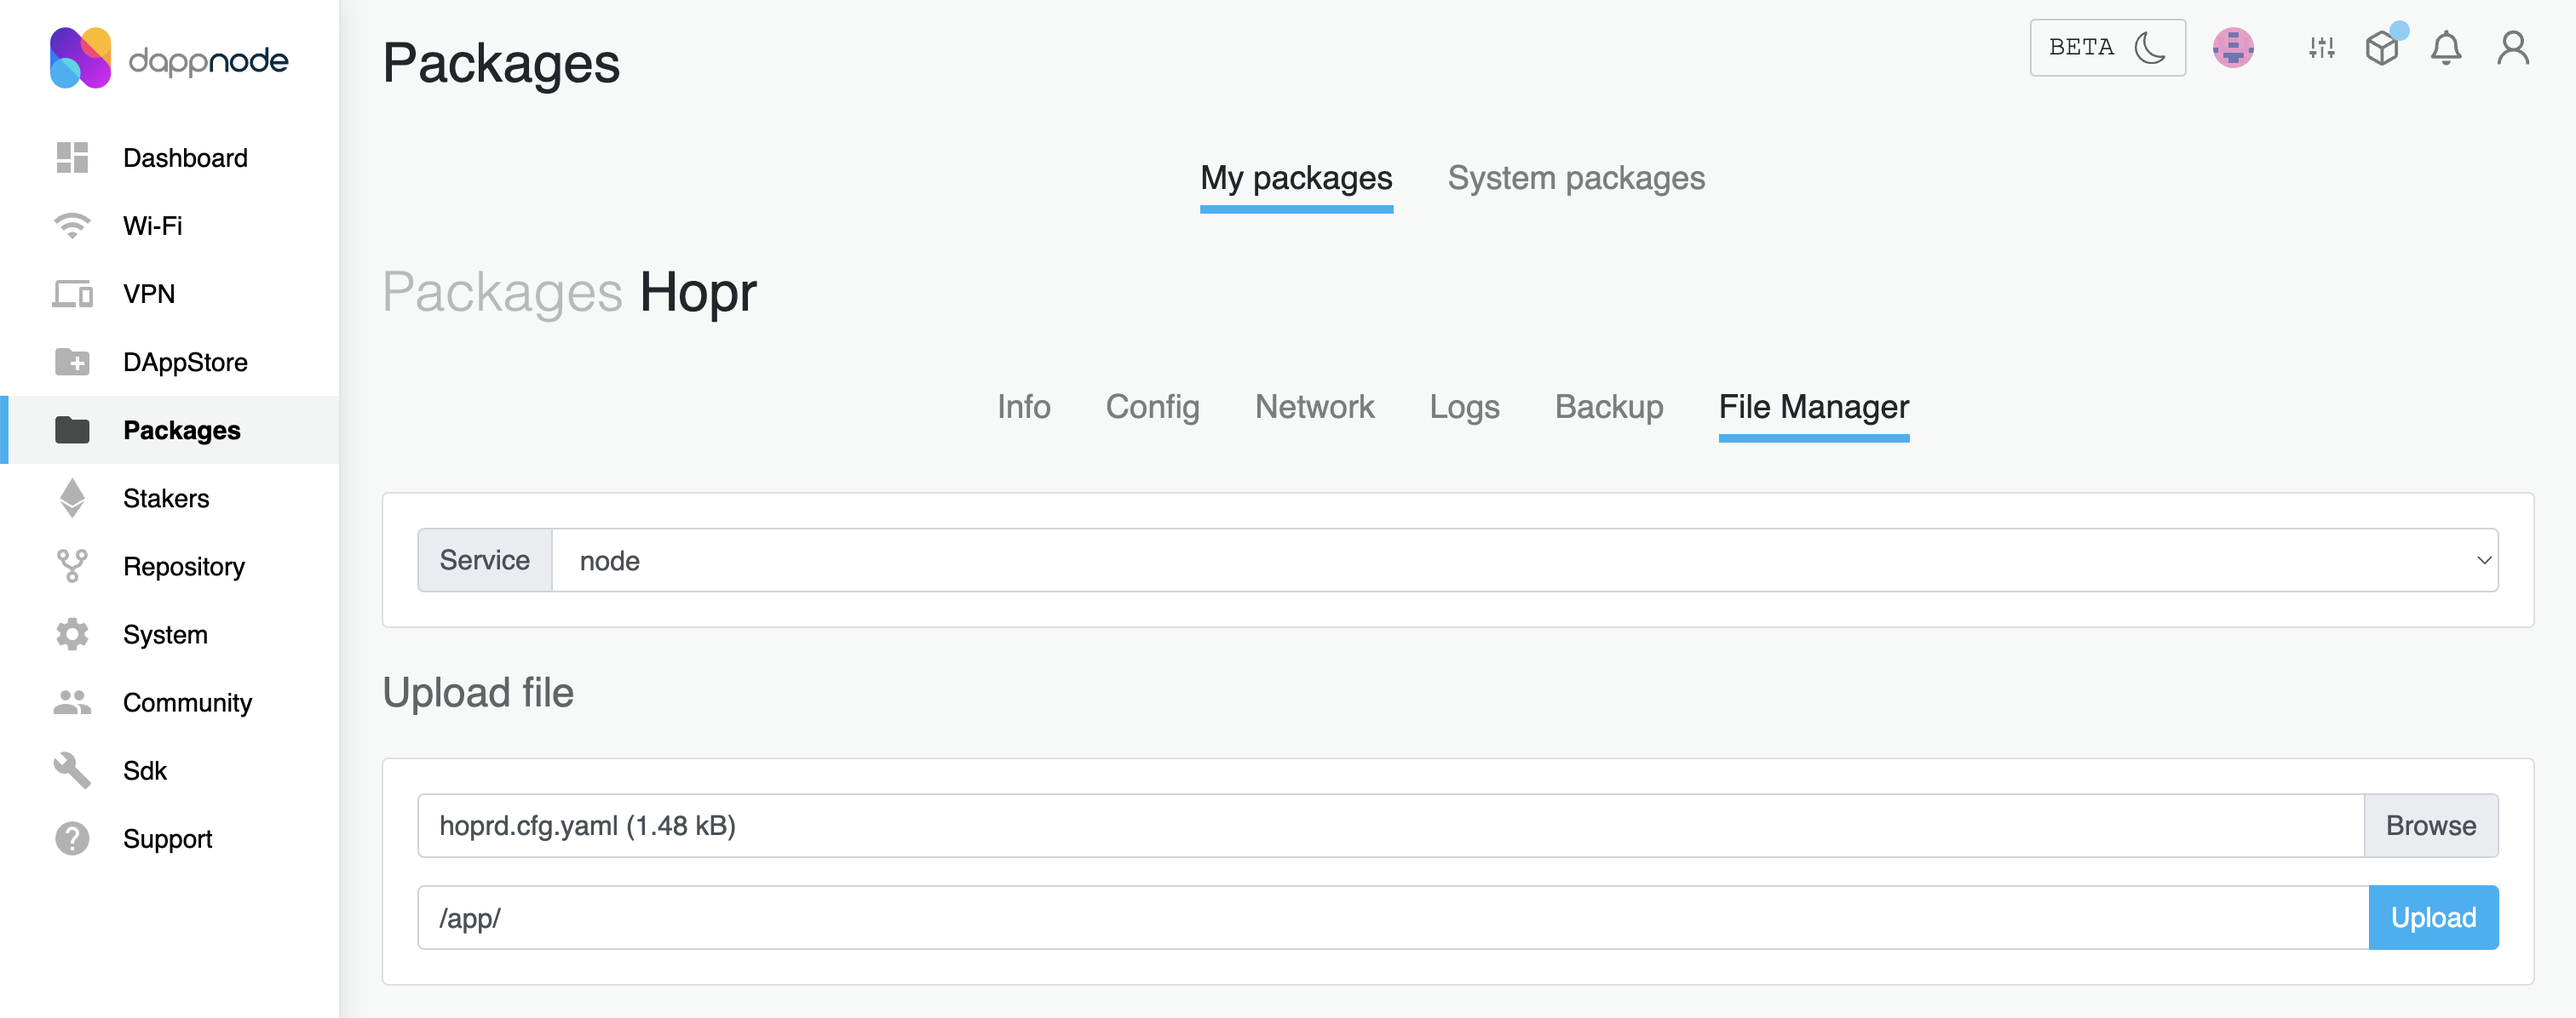
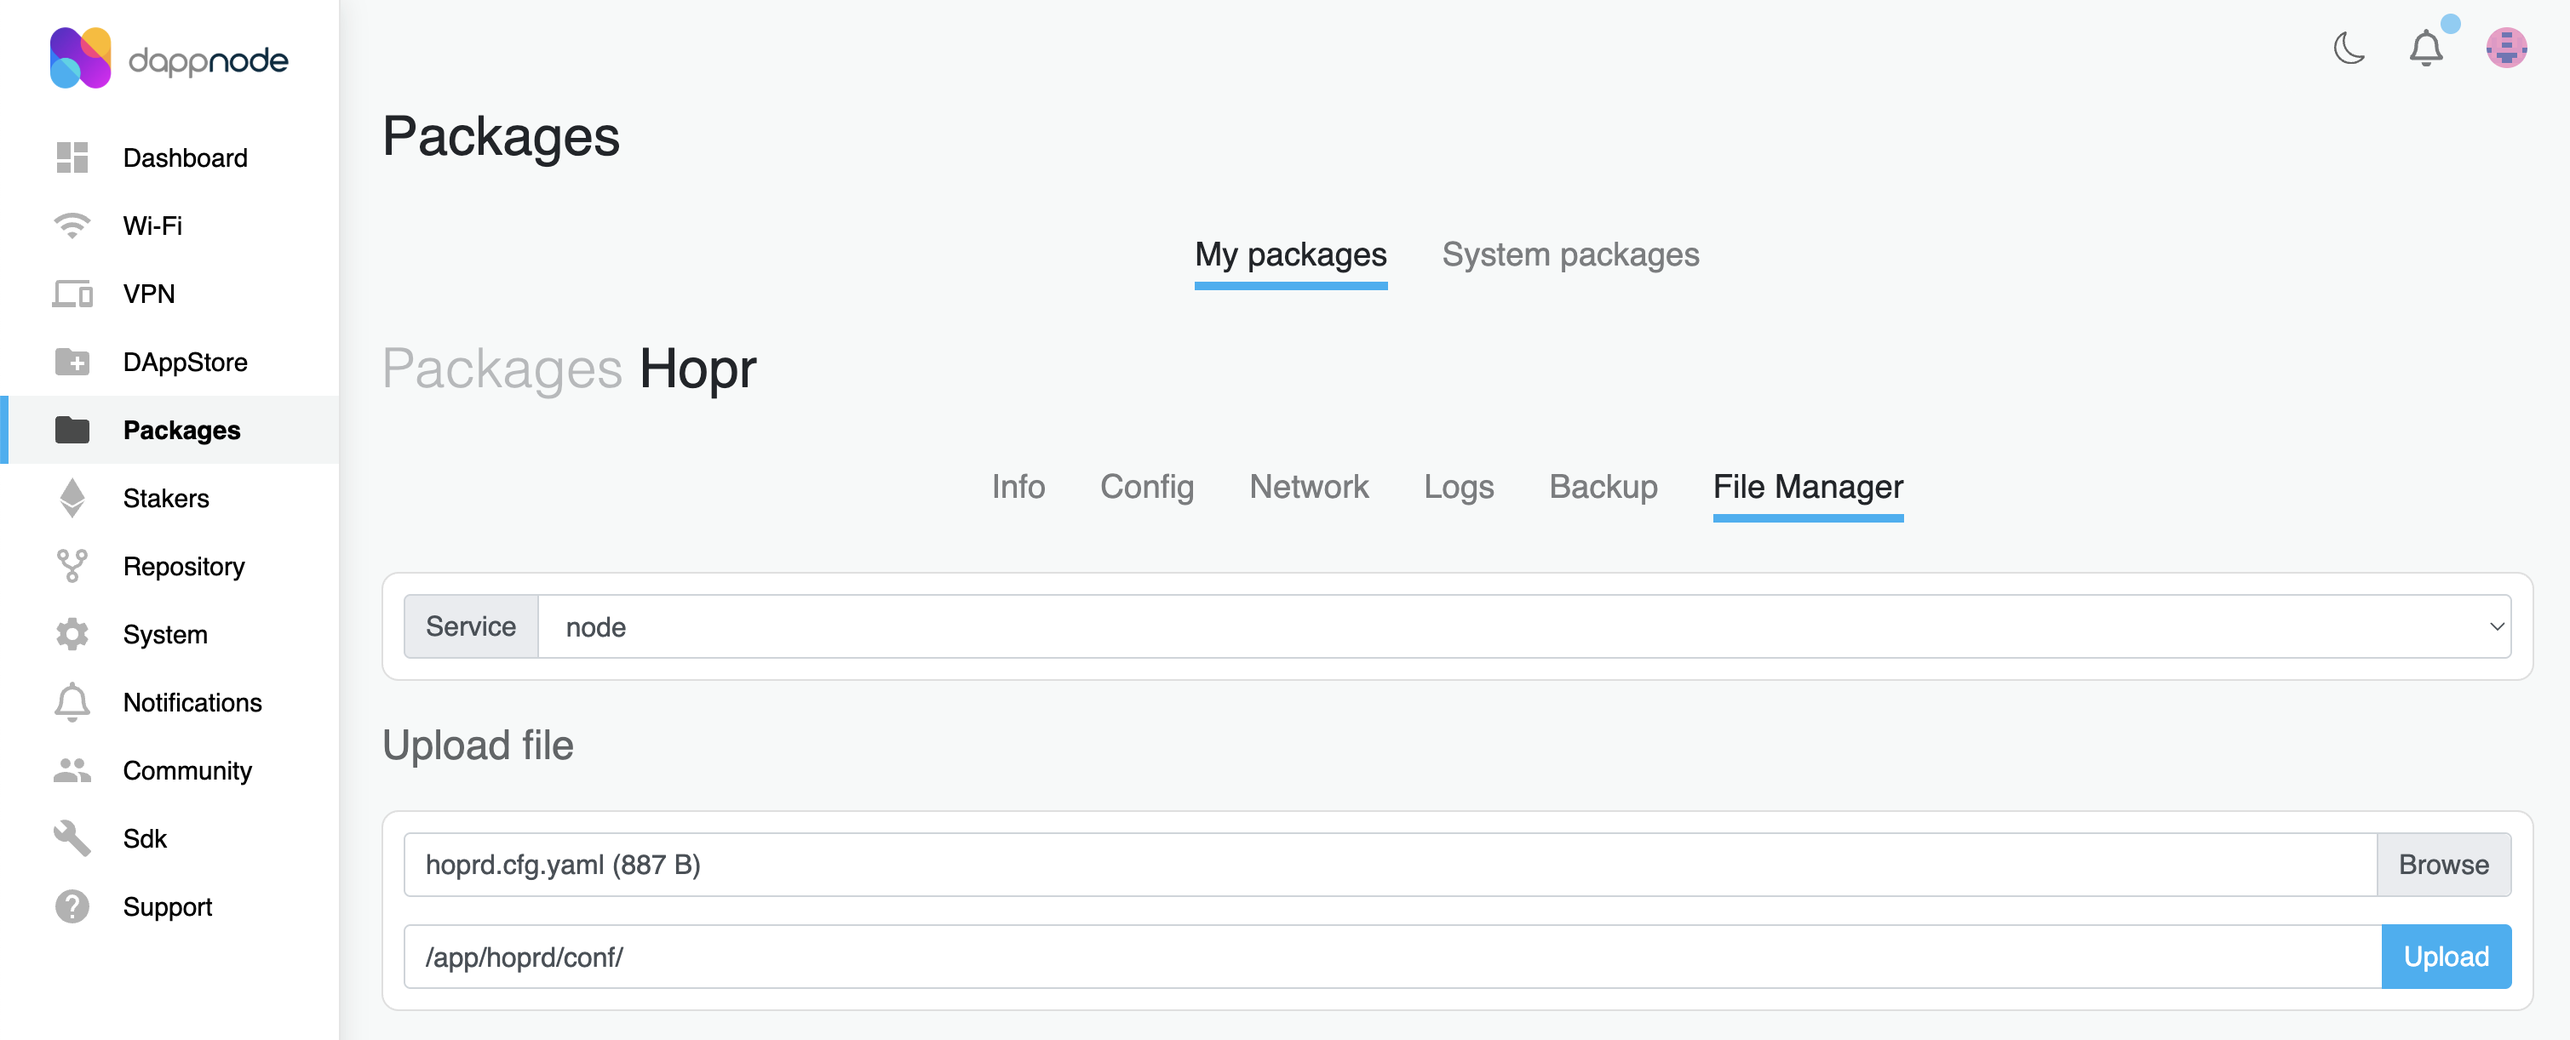
add auto fast sync

diff --git a/versioned_docs/version-v3.0.0/node/fast-sync.md b/versioned_docs/version-v3.0.0/node/fast-sync.md
@@ -11,9 +11,20 @@ import { NoCounter } from '@site/src/components/Counter';
 
 ## What is Fast Sync?
 
-The Fast Sync feature, introduced in HOPRd version 2.2.0, speeds up node synchronization by using HOPR logs database files. These files store logs from a previous sync performed via an RPC provider, allowing your node to read on-chain data efficiently. With Fast Sync, your node can complete synchronization in just 10 to 20 minutes, even without a local RPC provider. However, the exact duration may vary based on your hardware specifications.
+Fast Sync, a feature introduced in HOPRd version 2.2.0, significantly accelerates node synchronization by leveraging HOPR logs database files. These files store logs from a previous synchronization performed via an RPC provider, allowing your node to read on-chain data with enhanced efficiency. With Fast Sync, you can complete synchronization in just 10 to 20 minutes, even without a local RPC provider. Please note that the exact duration may vary depending on your hardware specifications.
 
-## Preparing for Fast Sync
+There are two methods for using Fast Sync:
+
+- **Manual Fast Sync:** This method requires you to use your own pre-synced database files to initiate the fast sync process. To use this, you must have already fully synced your node at least once.
+
+- **Automatic Fast Sync:** This method uses pre-synced database files provided by HOPR, which are automatically downloaded and used to proceed with the fast sync.
+
+Please select method to implement Fast Sync feature:
+
+<Tabs queryString="fast_sync_method">
+<TabItem value="manual" label="Manual Fast Sync">
+
+## Preparing for Manual Fast Sync
 
 1. First, you must upgrade your node to the latest version. To update your node, follow this [guide](backup-restore-update.md#update-your-node).
 
@@ -121,6 +132,76 @@ Please select platform to configure Fast Sync feature:
 9. **Restore the modified backup file**: Go to the [Backup tab](http://my.dappnode/packages/my/hopr.public.dappnode.eth/backup), click **Restore**, and select the modified archive **hopr.public.dappnode.eth_backup_resync.tar.xz**. On the **Restoring backup** popup, click **Restore**. Once you receive the notification message "Restored backup for HOPR", the process has been completed successfully.
 
 10. **Verify the restore process**: Go to the [Logs tab](http://my.dappnode/packages/my/hopr.public.dappnode.eth/logs). In the logs, you should see syncing process lines, indicating the restore was successful and the re-sync process is underway. Wait for the node to fully sync to 100%.
+
+</TabItem>
+</Tabs> 
+
+</TabItem>
+<TabItem value="automatic" label="Automatic Fast Sync">
+
+## Enabling Fast Sync on your node
+
+Please select platform to configure Fast Sync feature:
+
+<Tabs queryString="auto_fast_sync">
+<TabItem value="docker" label="Docker">
+
+1. Ensure that you have stopped the HOPRd node. You can find more details [here](node-operations.md#stop-your-hopr-node).
+
+2. Update your configuration file, inside configuration file locate the **chain** section and add the following settings below, aligned with the other configurations: `enable_logs_snapshot: true` and `logs_snapshot_url: "https://logs-snapshots-rotsee.hoprnet.org/rotsee-v3.0-latest.tar.xz"`. Save the changes to the configuration file.
+
+3. Start your HOPRd node. More details can be found [here](node-operations.md#start-your-hopr-node).
+
+</TabItem>
+<TabItem value="docker-compose" label="Docker Compose">
+
+1. Ensure that you have stopped the HOPRd node. You can find more details [here](node-operations.md#stop-your-hopr-node).
+
+2. On your machine, navigate to the **compose** folder. Navigate to **hoprd_data** find configuration file **hoprd.cfg.yaml** inside it locate the **chain** section and add the following settings below, aligned with the other configurations: `enable_logs_snapshot: true` and `logs_snapshot_url: "https://logs-snapshots-rotsee.hoprnet.org/rotsee-v3.0-latest.tar.xz"`. Save the changes to the configuration file.
+
+3. Start your HOPRd node. More details can be found [here](node-operations.md#start-your-hopr-node).
+
+</TabItem>
+<TabItem value="dappnode" label="Dappnode">
+
+1. **Backup your node**
+
+    Before proceeding with Fast sync process, ensure you back up your node:
+
+    1. Connect to your DAppNode dashboard.
+
+    1. Go to the [HOPR package Backup page](http://my.dappnode/packages/my/hopr.public.dappnode.eth/backup).
+
+    2. Click **Backup now** and download the archived file **hopr.public.dappnode.eth_backup.tar.xz** to your computer. Make an additional copy and store it securely on your computer.
+
+2. **Adjust Your Configuration File**
+
+    1. Download the example file specifically for the Dappnode: [hoprd.cfg.yaml](pathname:///files/hoprd.cfg.yaml)
+    2. Inside configuration file locate the **chain** section and add the following settings below, aligned with the other configurations: `enable_logs_snapshot: true` and `logs_snapshot_url: "https://logs-snapshots-rotsee.hoprnet.org/rotsee-v3.0-latest.tar.xz"`. Save the changes to the configuration file.
+
+3. **Upload Configuration File**
+
+    1. After adjusting the configuration file, connect to your Dappnode dashboard, locate the **HOPR** package, and navigate to the **File Manager** tab.
+
+        ![File Manager](/img/node/dappnode-file-manager.png)
+
+    2. In the **Upload file** section, click the **Browse** button next to the **Choose file** field, then select your newly created configuration file. Ensure that the configuration file is named **hoprd.cfg.yaml**.
+
+    3. In the text field under the **Upload file** section, enter the path **`/app/hoprd/conf/`**.
+
+        ![Dappnode file upload path](/img/node/dappnode-prefilled-config-data.png)
+
+    4. Click the **Upload** button and wait for the upload to finish.
+
+4. **Restart HOPRd package**
+
+    1. Go to the **Info** page within your HOPR package, and click the **Restart** button to restart your node.
+
+    2. Wait for about 5 minutes, then [connect to your node](./node-management-admin-ui#connecting-your-node) via the HOPR Admin UI. Navigate to the **CONFIGURATION** page to verify that the strategy settings have been updated. If the changes aren't visible, try performing a hard refresh of the HOPR Admin UI page.
+
+
+</TabItem>
+</Tabs>
 
 </TabItem>
 </Tabs>

diff --git a/versioned_docs/version-v3.0.0/node/backup-restore-update.md b/versioned_docs/version-v3.0.0/node/backup-restore-update.md
@@ -244,8 +244,13 @@ Please select your platform to update your HOPRd node:
         ```
         docker rm -f 8baa38408847
         ```
+3. **Enable Fast Sync (Optional)**
 
-3. **Update Your Configuration File**
+    Fast Sync significantly accelerates node synchronization. This process can take anywhere from 10 to 20 minutes, depending on your hardware specifications. To enable fast sync, follow [this guide](./fast-sync.md).
+
+4. **Update Your Configuration File**
+
+    **Note:**  If you followed the third step to enable Fast Sync, you can skip this step.
 
     Ensure your configuration file is up to date by applying the [latest configuration file](manage-node-strategies.md?config=docker#create-and-apply-configuration-file-to-your-node).
 
@@ -289,7 +294,7 @@ The update process occurs when you stop and restart the `hoprd` services, ensuri
         mkdir hoprd/conf && mv hoprd/hopr.id hoprd/conf/hopr.id && mv hoprd/hoprd.cfg.yaml hoprd/conf/hoprd.cfg.yaml
         ```
 
-3. **Update Your Configuration File**
+3. **Adjust Your Configuration File**
 
     1. **Locate configuration file**
     
@@ -298,7 +303,7 @@ The update process occurs when you stop and restart the `hoprd` services, ensuri
         /hoprd/conf/hoprd.cfg.yaml
         ```
 
-    3.2. **Edit hoprd.cfg.yaml file**
+    2. **Edit hoprd.cfg.yaml file**
 
         - Find the `strategy.strategies` section.
         - Under the `!AutoRedeeming` strategy, replace the existing 18-decimal value for `minimum_redeem_ticket_value` with:
@@ -306,6 +311,7 @@ The update process occurs when you stop and restart the `hoprd` services, ensuri
             ```
             minimum_redeem_ticket_value = '2.5 wxHOPR'
             ```
+        - **(Optional step)** Enable Fast Sync significantly accelerates node synchronization. This process can take anywhere from 10 to 20 minutes, depending on your hardware specifications. To enable fast sync, follow [this guide](./fast-sync.md).
 
 4. **Start hoprd Services**
 
@@ -333,7 +339,13 @@ The update process occurs when you stop and restart the `hoprd` services, ensuri
 
     During the update process, all data fields should be pre-filled. Click `Submit` to complete the HOPRd node update process.
 
-5. **Apply the Latest Configuration File**
+5. **Enable Fast Sync (Optional)**
+
+    Fast Sync significantly accelerates node synchronization. This process can take anywhere from 10 to 20 minutes, depending on your hardware specifications. To enable fast sync, follow [this guide](./fast-sync.md).
+
+6. **Update Your Configuration File**
+
+    **Note:**  If you followed the third step to enable Fast Sync, you can skip this step.
 
     Ensure your configuration file is current by applying the [latest configuration file](manage-node-strategies.md?config=dappnode#create-and-apply-configuration-file-to-your-node).
  
